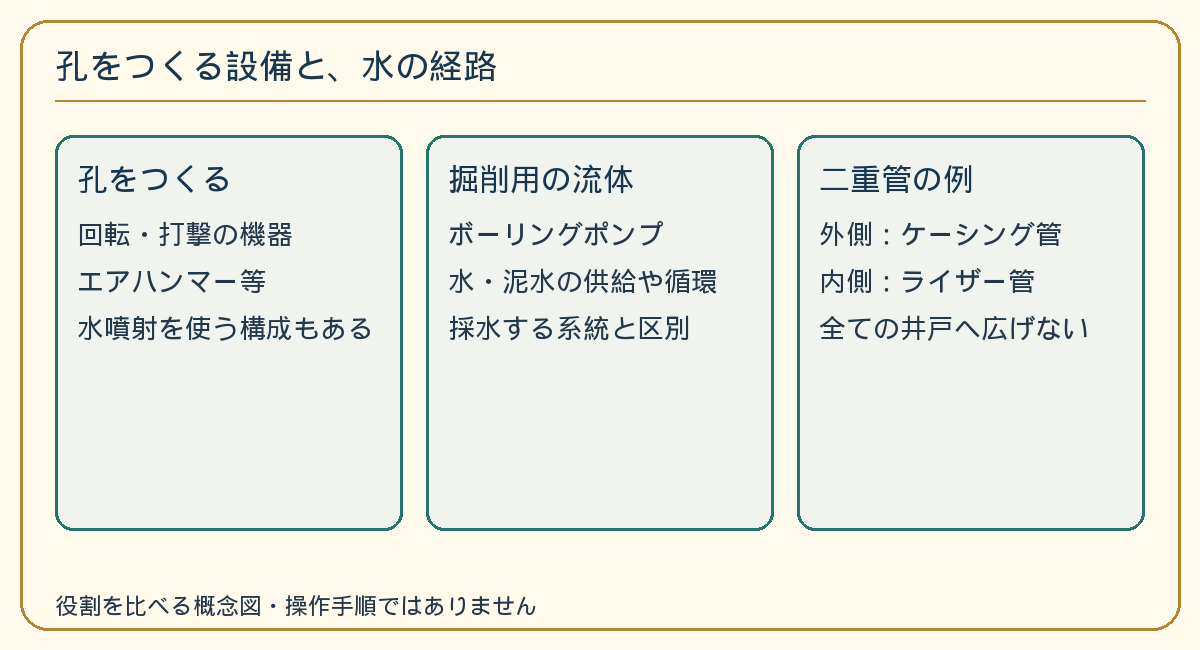
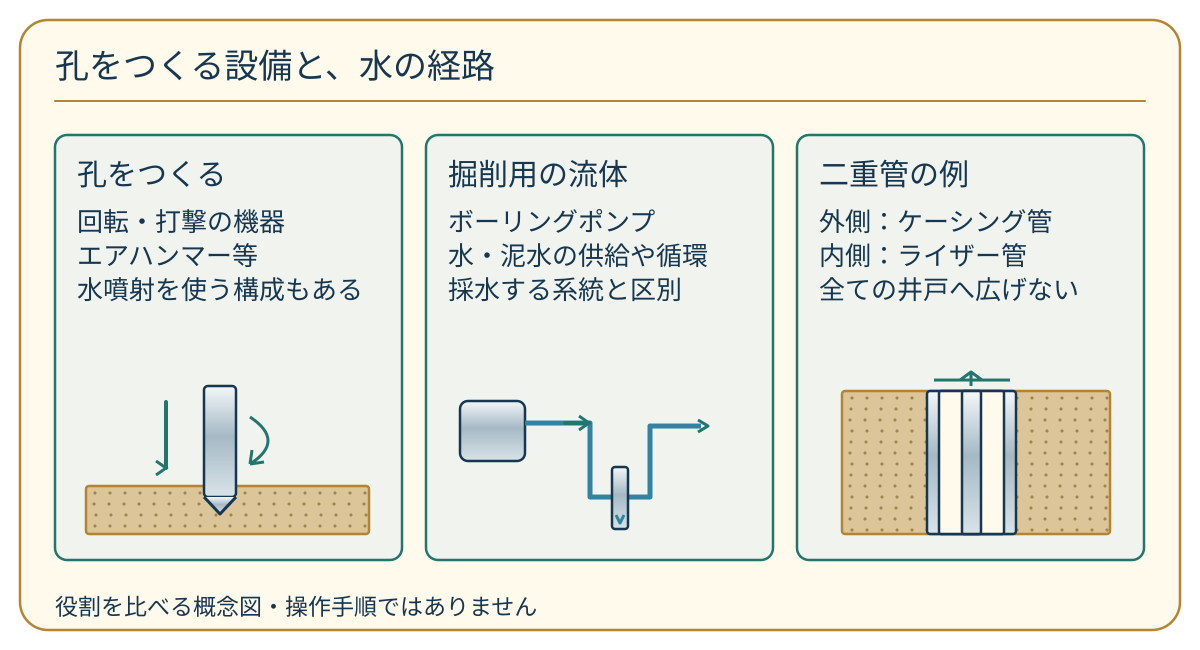
fix(kensetsu): illustrate civil circulation operator and tree growth distinctions

diff --git a/scripts/kensetsu-authoring/draw-royal-differential-groupC05.py b/scripts/kensetsu-authoring/draw-royal-differential-groupC05.py
@@ -1,0 +1,26 @@
+"""Well flow, roller operator position and pruning condition concept diagrams."""
+from pathlib import Path
+s=Path(__file__).with_name('draw-royal-differential-groupC02.py').read_text().split('# Ground/rod')[0]
+s=s.replace("in ['c7','c8','c9']", "in ['c17','c18','c19']").replace("groupC02'","groupC05'")
+exec(s)
+# Impact/rotation at the working tip; circulating drilling fluid is a separate relation.
+b=soil(86,486,283,48)+rect(204,386,32,111,'url(#metal)',N,4)+path('M204 497 L220 514 L236 497','url(#metal)')+arrow(166,402,166,468)+path('M250 417 Q286 441 250 464 M250 464 L264 462 M250 464 L252 450','none',T,3)
+b+=rect(460,401,65,60,'url(#metal)',N,8)+path('M525 423 H590 V497 H650 V426 H701','none','#3183A2',5)+arrow(565,423,589,423)+path('M698 420 L708 426 L698 432','none',T,3)+rect(612,467,16,62,'url(#metal)',N,3)+path('M616 515 L620 523 L624 515','none','#3183A2',3)
+b+=soil(842,391,268,143)+rect(927,391,89,143,'url(#metal)',N,3)+rect(939,391,65,143,'#FFFAEC',N,2)+rect(962,391,19,143,'url(#metal)',N,2)+path('M934 380 H1010 M971 372 V386 M960 380 L971 372 L982 380','none',T,3)
+save('c17',b)
+# Relative operator locations, not a machine operating instruction or rating.
+b=path('M105 524 H516','none',G,3)+f'<circle cx="191" cy="391" r="19" fill="#E7D4B3" stroke="{N}" stroke-width="3"/>'+path('M191 413 V464 M191 431 L246 445 M191 464 L166 509 M191 464 L213 509','none',N,8)+path('M245 445 L312 456 L343 489','none',N,5)+rect(332,456,131,38,'url(#metal)',N,7)+rect(350,488,122,35,'url(#metal)',N,16)+path('M369 492 V520 M455 492 V520','none',N,2)
+b+=path('M653 524 H1096','none',G,3)+rect(762,453,251,47,'url(#metal)',N,8)+rect(743,488,98,35,'url(#metal)',N,15)+rect(940,488,98,35,'url(#metal)',N,15)+path('M849 414 V456 H896','none',N,7)+f'<circle cx="868" cy="376" r="18" fill="#E7D4B3" stroke="{N}" stroke-width="3"/>'+path('M866 398 L876 431 H921 L932 457 M874 414 L929 410','none',N,7)+path('M929 410 L943 401 M939 396 L950 408','none',N,3)
+save('c18',b)
+# Tree architecture and flower/fruit states; no cut line or universal calendar month.
+b=path('M306 531 V443 M306 472 L230 423 M306 486 L382 431 M306 450 L280 403 M306 443 L342 395','none','#806744',8)
+for x,y in [(230,423),(280,403),(342,395),(382,431)]:
+ b+=path(f'M{x} {y} Q{x-36} {y-43} {x-49} {y-8} Q{x-28} {y+15} {x} {y} Q{x+35} {y-37} {x+47} {y-4} Q{x+29} {y+20} {x} {y}','#C7DCD5',T,2)
+b+=path('M180 534 H429','none',G,3)+path('M726 506 Q796 465 848 435','none','#806744',6)
+for x,y in [(765,483),(815,456)]:b+=path(f'M{x} {y} Q{x-4} {y-42} {x+30} {y-35} Q{x+34} {y-11} {x} {y}','#C7DCD5',T,2)
+for x,y in [(849,432),(877,460)]:
+ for dx,dy in [(-10,0),(10,0),(0,-10),(0,10)]:b+=f'<circle cx="{x+dx}" cy="{y+dy}" r="9" fill="#E7D4B3" stroke="{G}" stroke-width="2"/>'
+ b+=f'<circle cx="{x}" cy="{y}" r="5" fill="{G}"/>'
+b+=rect(958,393,107,119,'#FFFAEC',N,6)+line(958,418,1065,418,G,3)+path('M979 385 V405 M1044 385 V405 M978 442 H1047 M978 465 H1047 M978 488 H1023','none',N,3)+path('M918 456 H943 M934 447 L943 456 L934 465','none',T,3)
+save('c19',b)
+print('Wrote c17–c19 controlled relations,1200x650')
